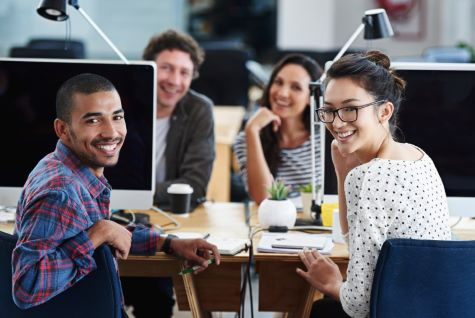
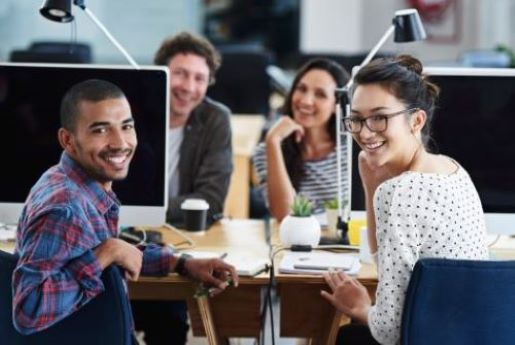
adding page photos

diff --git a/client/src/pages/Login.js b/client/src/pages/Login.js
@@ -45,8 +45,9 @@ const Login = (props) => {
     <main className="flex-row justify-center mb-4">
       <div className="col-12 col-lg-10">
         <div className="card">
-          <h3 className="card-header bg-dark text-light p-2">Login</h3>
+          <h3 className="card-header bg-dark text-light p-2"> </h3>
           <div className="card-body">
+          <img src={require('./images/Login2.jpg')} alt="Logo" />
             {data ? (
               <p>
                 Success! You may now head{' '}

diff --git a/client/src/pages/Signup.js b/client/src/pages/Signup.js
@@ -45,6 +45,7 @@ const Signup = (props) => {
           <div className="card">
             <h3 className="card-header bg-dark text-light p-2">Sign Up</h3>
             <div className="card-body">
+            <img src={require('./images/Signup.jpg')} alt="Logo" />
               {data ? (
                 <p>
                   Success! You may now head{' '}

diff --git a/client/src/components/JobPost/index.js b/client/src/components/JobPost/index.js
@@ -54,3 +54,6 @@ const JobForm = () => {
     </form>
   );
 };
+
+export default JobForm;
+
